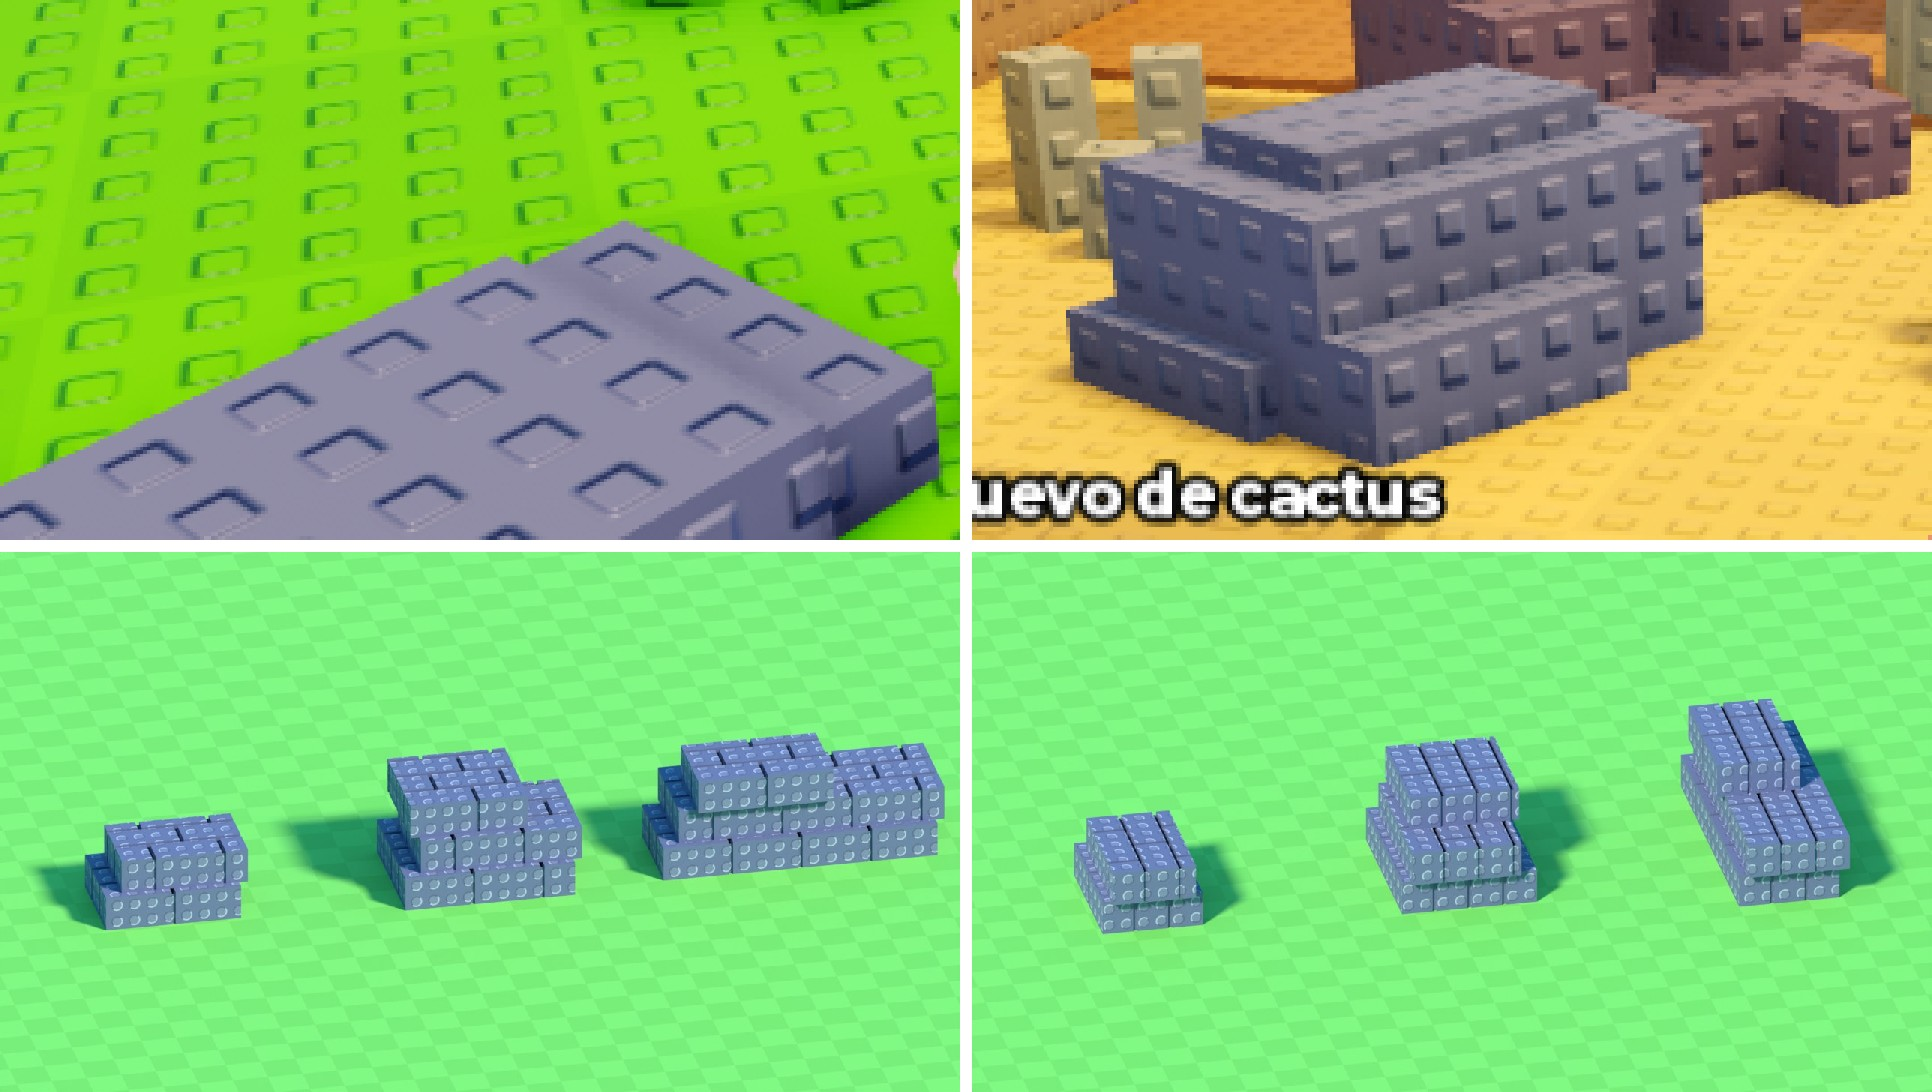
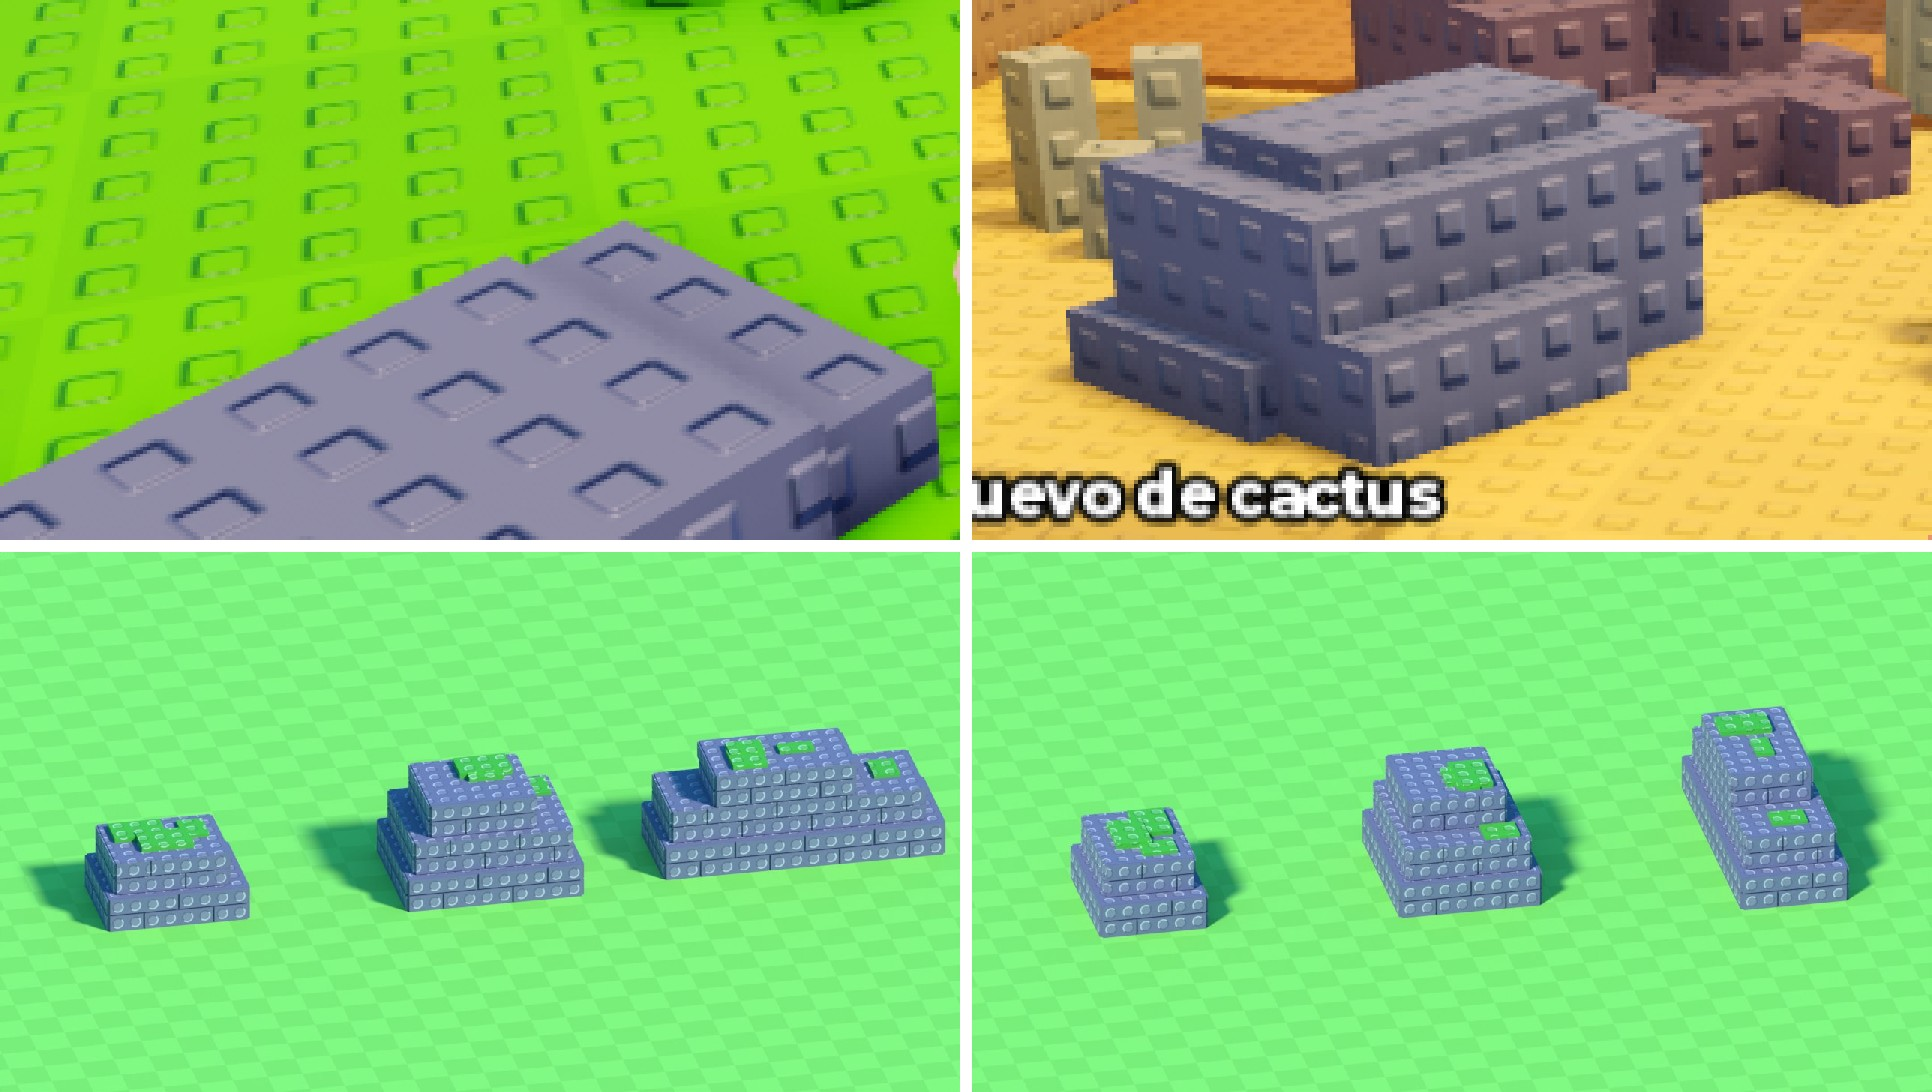
Forja Rápida: Losas_Piedra más unidas (bloque entero con hiladas en los costados) y 3 por zona con su detalle

diff --git a/forja-rapida/arte/scripts/decoracion.py b/forja-rapida/arte/scripts/decoracion.py
@@ -10,9 +10,11 @@ Piezas:
                  con juntas marcadas de los dos lados y una tapa de pasto de 2 studs que sale medio
                  stud para cada lado, con gotitas. Encaja sin costura con otro tramo igual (mismo
                  truco que el risco). Mallas Pared y Tapa (la tapa toma el color de cada bioma).
-  Losas_Piedra   montoncito de 2 o 3 losas planas de ladrillo gris azulado, apiladas un poco
-                 corridas (escombros), en tres tamaños: Chica (2 losas), Mediana y Larga (3).
-                 Una malla por tamaño, la misma para todas las zonas (arte/referencias/losas-*.png).
+  Losas_Piedra   montoncito de 2 o 3 losas planas de piedra apiladas un poco corridas
+                 (escombros), en tres tamaños por zona: Chica (2 losas), Mediana y Larga (3). Cada
+                 losa es un bloque entero (arriba lisa, con studs) y los costados tienen hiladas de
+                 ladrillo con juntas finitas. Mallas Piedra y (si la zona tiene) Detalle: musgo,
+                 arena, nieve, grietas de lava o cristales (arte/referencias/losas-*.png).
 
 Cada pieza tiene una variante por zona (ZONAS): sus colores y lo que tiene la tapa (pasto con
 gotitas; dunas de arena; nieve con carámbanos; ceniza con piedritas y chorros de lava; cristales
@@ -77,19 +79,27 @@ PARED_TAPA = 2  # tapa de pasto: 22 + 2 = 24 de alto
 PARED_ESPESOR = 4  # y, de -2 a 2
 MAX_PARED = 2000
 
-# Losas_Piedra, en studs: losas planas de ladrillo apiladas un poco corridas (escombros). Cada
-# losa es (x0, x1, y0, y1); van una encima de la otra, de abajo para arriba.
-COLOR_LOSAS = "#686C8A"  # gris azulado de las capturas
-LOSA_ALTO = 2  # grosor de cada losa
-LOSA_LADRILLO = (4, 2)  # largo (x) y ancho (y) de cada ladrillo de la losa
-LOSA_JUNTA = 0.24  # junta entre ladrillos
-MAX_LOSAS = 1500
+# Losas_Piedra, en studs: losas planas apiladas un poco corridas (escombros). Cada losa es
+# (x0, x1, y0, y1); van una encima de la otra, de abajo para arriba. Las zonas pares las usan
+# espejadas, así no se repiten igual entre zonas.
+LOSA_ALTO = 2  # grosor de cada losa (2 hiladas de ladrillo de 1)
+LOSA_LADRILLO = 4  # largo de cada ladrillo de los costados
+LOSA_RELIEVE = 0.12  # cuánto salen los ladrillos del bloque de la losa
+LOSA_JUNTA = 0.1  # junta finita entre ladrillos
+MAX_LOSAS = 1500  # por pieza (sumando sus mallas)
 LOSAS = {
-    "Chica": [(-4, 4, -3, 3), (-3, 4.5, -2.5, 2.5)],
-    "Mediana": [(-5, 5, -4, 4), (-4, 5.5, -3.5, 3), (-4.5, 2.5, -3, 3.5)],
-    "Larga": [(-8, 8, -3, 3), (-7, 8.5, -2.5, 3.5), (-6, 2, -3, 2)],
+    "Chica": [(-4, 4, -3, 3), (-3.5, 3, -2.5, 2.5)],
+    "Mediana": [(-5, 5, -4, 4), (-4.5, 4.5, -3.5, 3.5), (-3.5, 2.5, -3, 2.5)],
+    "Larga": [(-8, 8, -3, 3), (-7.5, 7, -2.5, 2.5), (-5, 3, -2.5, 2)],
 }
-
+# Colores de cada zona: piedra y detalle (neon = el detalle brilla)
+LOSAS_ZONAS = {
+    1: {"piedra": "#686C8A", "detalle": "#3DB02A", "neon": False, "estilo": "musgo"},
+    2: {"piedra": "#B08A5E", "detalle": "#F2D27A", "neon": False, "estilo": "arena"},
+    3: {"piedra": "#7F95B5", "detalle": "#F4FAFF", "neon": False, "estilo": "nieve"},
+    4: {"piedra": "#3A2E33", "detalle": "#FF5A00", "neon": True, "estilo": "lava"},
+    5: {"piedra": "#3B3570", "detalle": "#7CF5FF", "neon": True, "estilo": "cristal"},
+}
 
 class Malla:
     """Caras rectangulares (alineadas a los ejes, en studs) con UV de studs por cuadrado de TEJA."""
@@ -329,37 +339,126 @@ def pared_ladrillo(mats, zona=1, semilla=23):
     return objs, conteo
 
 
-def losas_piedra(mats, tam):
-    """Una malla con el montoncito de losas de un tamaño (Chica, Mediana o Larga). Cada losa es de
-    ladrillos de LOSA_LADRILLO separados por una junta (por la junta se ve el centro de la losa,
-    un poco hundido), con las filas corridas medio ladrillo. Pivote en el centro de la base."""
-    losas = LOSAS[tam]
+def hiladas(m, eje, signo, fijo, r0, r1, z0, abajo, corrido):
+    """Ladrillos (plaquitas de LOSA_RELIEVE) sobre un costado de la losa: el plano eje = fijo,
+    mirando a signo, de r0 a r1 a lo largo del costado, dos hiladas de 1 de alto."""
+    j = LOSA_JUNTA / 2
+    afuera = (fijo, fijo + LOSA_RELIEVE) if signo > 0 else (fijo - LOSA_RELIEVE, fijo)
+    for fila in range(round(LOSA_ALTO)):
+        za, zb = z0 + fila + j, z0 + fila + 1 - j
+        if fila == 0 and abajo:
+            za = z0  # la hilada de abajo de todo apoya en el piso
+        r = r0 - (LOSA_LADRILLO / 2 if (fila + corrido) % 2 else 0)
+        while r < r1 - 1e-6:
+            ra, rb = max(r, r0) + j, min(r + LOSA_LADRILLO, r1) - j
+            if rb - ra > 0.5:
+                letra = "xX"[signo > 0] if eje == 0 else "yY"[signo > 0]
+                lados = "yY" if eje == 0 else "xX"
+                caras = letra + lados + "Z" + ("" if za == z0 and abajo else "z")
+                if eje == 0:
+                    m.caja(afuera, (ra, rb), (za, zb), caras=caras)
+                else:
+                    m.caja((ra, rb), afuera, (za, zb), caras=caras)
+            r += LOSA_LADRILLO
+
+
+def adorno(det, rng, estilo, x0, x1, y0, y1, z, grande):
+    """Detalle de la zona sobre la parte de arriba (x0..x1, y0..y1) a la altura z. grande: la
+    losa de arriba de todo (lleva más); si no, es el borde libre de una losa de abajo."""
+    w, d = x1 - x0, y1 - y0
+    if w < 1 or d < 1:
+        return
+    caras = "xXyYZ"
+
+    def lugar(a, b):
+        a, b = min(a, w), min(b, d)
+        xa, ya = rng.uniform(x0, x1 - a), rng.uniform(y0, y1 - b)
+        return (xa, xa + a), (ya, ya + b)
+
+    if estilo == "musgo":
+        for k in range(3 if grande else 1):  # alturas distintas: si se pisan, no se mezclan
+            rx, ry = lugar(rng.choice((1.5, 2, 3)), rng.choice((1, 1.5, 2)))
+            det.caja(rx, ry, (z, z + 0.2 + 0.08 * k), caras=caras)
+    elif estilo == "arena":
+        if grande:
+            rx, ry = lugar(rng.choice((3, 4)), rng.choice((2.5, 3)))
+            det.caja(rx, ry, (z, z + 0.5), caras=caras)
+            det.caja((rx[0] + 0.75, rx[1] - 0.75), (ry[0] + 0.6, ry[1] - 0.6), (z + 0.5, z + 1), caras=caras)
+        else:
+            rx, ry = lugar(2, 1.5)
+            det.caja(rx, ry, (z, z + 0.5), caras=caras)
+    elif estilo == "nieve":
+        if grande:  # capa que tapa toda la losa de arriba, con un montoncito
+            det.caja((x0 - 0.15, x1 + 0.15), (y0 - 0.15, y1 + 0.15), (z, z + 0.4), caras="xXyYzZ")
+            rx, ry = lugar(2, 1.5)
+            det.caja(rx, ry, (z + 0.4, z + 0.9), caras=caras)
+        else:
+            rx, ry = lugar(w, min(d, 1.5))
+            det.caja(rx, ry, (z, z + 0.3), caras=caras)
+    elif estilo == "lava":
+        for k in range(2 if grande else 1):  # grietas finitas que brillan
+            if rng.random() < 0.5:
+                rx, ry = lugar(rng.choice((2, 3, 4)), 0.4)
+            else:
+                rx, ry = lugar(0.4, rng.choice((2, 3)))
+            det.caja(rx, ry, (z, z + 0.06 + 0.03 * k), caras=caras)
+    elif estilo == "cristal":
+        rx, ry = lugar(1.6, 1.6)
+        piezas = ((0, 0, 0.8, 2.2), (0.8, 0.3, 0.6, 1.4), (0.2, 0.9, 0.5, 1)) if grande else ((0, 0, 0.6, 1.2),)
+        for dx, dy, a, h in piezas:
+            h *= rng.choice((0.8, 1, 1.2))
+            det.caja((rx[0] + dx, rx[0] + dx + a), (ry[0] + dy, ry[0] + dy + a), (z, z + h), caras=caras)
+
+
+def losas_piedra(mats, tam, zona=1):
+    """El montoncito de losas de un tamaño (Chica, Mediana o Larga) para una zona: mallas Piedra
+    y (si la zona tiene) Detalle. Cada losa es un bloque entero (arriba lisa, así se lee como
+    una sola piedra) con hiladas de ladrillo en los costados. Pivote en el centro de la base."""
+    rng = random.Random(f"{tam}{zona}")
+    espejo = -1 if zona % 2 == 0 else 1
+    losas = [(min(espejo * a, espejo * b), max(espejo * a, espejo * b), y0, y1) for a, b, y0, y1 in LOSAS[tam]]
     # centrar: el centro de lo que ocupa el montón queda en x = 0, y = 0
     cx = (min(l[0] for l in losas) + max(l[1] for l in losas)) / 2
     cy = (min(l[2] for l in losas) + max(l[3] for l in losas)) / 2
-    m = Malla()
-    j = LOSA_JUNTA / 2
-    largo, ancho = LOSA_LADRILLO
+    losas = [(x0 - cx, x1 - cx, y0 - cy, y1 - cy) for x0, x1, y0, y1 in losas]
+    estilo = LOSAS_ZONAS[zona]["estilo"]
+    piedra, det = Malla(), Malla()
     for i, (x0, x1, y0, y1) in enumerate(losas):
-        x0, x1, y0, y1 = x0 - cx, x1 - cx, y0 - cy, y1 - cy
         z0, z1 = i * LOSA_ALTO, (i + 1) * LOSA_ALTO
-        # el centro de la losa (se ve por las juntas; más adentro que los ladrillos, así no se pisan)
-        h = j + 0.12
-        m.caja((x0 + h, x1 - h), (y0 + h, y1 - h), (z0, z1 - 0.15), caras="xXyY")
-        fila, y = 0, y0
-        while y < y1 - 1e-6:
-            ya, yb = y, min(y + ancho, y1)
-            x = x0 - (largo / 2 if (fila + i) % 2 else 0)
-            while x < x1 - 1e-6:
-                xa, xb = max(x, x0), min(x + largo, x1)
-                if xb - xa > 0.6:  # sin ladrillitos finitos en las puntas
-                    caras = "xXyYZ" if i == 0 else "xXyYzZ"  # la de abajo no muestra la base
-                    m.caja((xa + j, xb - j), (ya + j, yb - j), (z0, z1), caras=caras)
-                x += largo
-            y += ancho
-            fila += 1
-    return mallas([(f"Losas_{tam}", m, mats["losas"])], MAX_LOSAS, f"Losas_Piedra {tam}")
+        abajo = i == 0
+        # el bloque de la losa (arriba entero) y los ladrillos de los 4 costados
+        # (sin base: la de abajo apoya en el piso y las demás apoyan enteras sobre la anterior)
+        piedra.caja((x0, x1), (y0, y1), (z0, z1), caras="xXyYZ")
+        hiladas(piedra, 0, -1, x0, y0, y1, z0, abajo, i)
+        hiladas(piedra, 0, 1, x1, y0, y1, z0, abajo, i + 1)
+        hiladas(piedra, 1, -1, y0, x0, x1, z0, abajo, i + 1)
+        hiladas(piedra, 1, 1, y1, x0, x1, z0, abajo, i)
+        if i + 1 < len(losas):
+            # borde libre más ancho de esta losa (lo que no tapa la de arriba)
+            ux0, ux1, uy0, uy1 = losas[i + 1]
+            bordes = [(x0, ux0, y0, y1), (ux1, x1, y0, y1), (x0, x1, y0, uy0), (x0, x1, uy1, y1)]
+            bx0, bx1, by0, by1 = max(bordes, key=lambda b: min(b[1] - b[0], b[3] - b[2]))
+            adorno(det, rng, estilo, bx0 + 0.2, bx1 - 0.2, by0 + 0.2, by1 - 0.2, z1, False)
+        else:
+            adorno(det, rng, estilo, x0 + 0.3, x1 - 0.3, y0 + 0.3, y1 - 0.3, z1, True)
+    nombre = f"Losas_{tam}"
+    objs, conteo = mallas([("Piedra", piedra, mats["piedra"]), ("Detalle", det, mats["detalle"])], MAX_LOSAS, nombre)
+    if sum(conteo.values()) > MAX_LOSAS:
+        raise RuntimeError(f"{nombre} zona {zona}: {sum(conteo.values())} triángulos (máximo {MAX_LOSAS})")
+    return objs, conteo
 
+
+def mats_losas(zona, studs=None):
+    """Materiales de las losas de una zona; con studs, para el render (y lo Neon brilla)."""
+    z = LOSAS_ZONAS[zona]
+    if studs is None:
+        return {"piedra": M.material(f"Losas_Zona{zona}", z["piedra"]), "detalle": M.material(f"Losas_Detalle_Zona{zona}", z["detalle"])}
+    det = (
+        M.material(f"LDet{zona}", z["detalle"], brillo=z["detalle"], fuerza_brillo=1.2)
+        if z["neon"]
+        else material_studs(f"LDet{zona}", z["detalle"], studs)
+    )
+    return {"piedra": material_studs(f"Losas{zona}", z["piedra"], studs), "detalle": det}
 
 # nombre -> (función, alto total en studs, fondo en studs)
 PIEZAS = {
@@ -465,29 +564,49 @@ REFERENCIAS = {
 
 
 def render_losas():
-    """Losas_Piedra: chica, mediana y larga en fila, de frente y de costado, y al lado de las
-    referencias."""
-    conteo = {}
+    """Losas_Piedra de la zona 1 (chica, mediana y larga en fila) de frente y de costado, al lado
+    de las referencias; y losas_zonas.jpg con las 3 de cada zona (una fila por zona)."""
+    import numpy as np
+
     paso = 18 * M.STUD
     for vista in ("frente", "costado"):
         M.limpiar_escena()
         escena = M.escena_render(1280, 720)
-        mats = {"losas": material_studs("Losas", COLOR_LOSAS, textura_studs())}
+        mats = mats_losas(1, textura_studs())
         for k, tam in enumerate(LOSAS):
-            objs, c = losas_piedra(mats, tam)
-            conteo.update(c)
-            if vista == "frente":
-                M.mover(objs, (k - 1) * paso)
-            else:
-                M.mover(objs, 0, (k - 1) * paso)
-        if vista == "frente":
-            camara_orto(escena, (0, 0, 1.6 * LOSA_ALTO * M.STUD), 3 * paso * 1.0, 26, -12)
-        else:
-            camara_orto(escena, (0, 0, 1.6 * LOSA_ALTO * M.STUD), 3 * paso * 1.0, 26, 78)
+            objs, _ = losas_piedra(mats, tam, 1)
+            M.mover(objs, (k - 1) * paso if vista == "frente" else 0, 0 if vista == "frente" else (k - 1) * paso)
+        giro = -12 if vista == "frente" else 78
+        camara_orto(escena, (0, 0, 1.6 * LOSA_ALTO * M.STUD), 3 * paso, 26, giro)
         M.render(f"losas_piedra_{vista}")
     comparar("Losas_Piedra")
-    print("TRIANGULOS Losas_Piedra", conteo)
-
+    # todas las zonas: una imagen por zona y después juntas, de arriba (zona 1) para abajo
+    filas = []
+    for zona in LOSAS_ZONAS:
+        M.limpiar_escena()
+        escena = M.escena_render(1800, 520)
+        mats = mats_losas(zona, textura_studs())
+        for k, tam in enumerate(LOSAS):
+            objs, conteo = losas_piedra(mats, tam, zona)
+            M.mover(objs, (k - 1) * paso)
+            print("TRIANGULOS Losas", f"zona {zona}", tam, conteo, "total", sum(conteo.values()))
+        t = M.etiqueta(f"Zona {zona}", -1.5 * paso - 0.6, -2.2, tam=0.5, color="#1B1F3B")
+        t.rotation_euler.x = math.radians(64)
+        camara_orto(escena, (0, 0, 1.2 * LOSA_ALTO * M.STUD), 3.2 * paso, 26, -12)
+        M.render(f"losas_zona{zona}")
+        filas.append(cargar(M.RENDERS / f"losas_zona{zona}.jpg", 1800, 520))
+        (M.RENDERS / f"losas_zona{zona}.jpg").unlink()
+    blanco = np.ones((10, 1800, 4), dtype=np.float32)
+    partes = []
+    for fila in reversed(filas):  # en Blender la fila 0 es la de abajo
+        partes += [fila, blanco]
+    junto = np.concatenate(partes[:-1], axis=0)
+    salida = bpy.data.images.new("losas", junto.shape[1], junto.shape[0])
+    salida.pixels.foreach_set(junto.ravel())
+    salida.filepath_raw = str(M.RENDERS / "losas_zonas.jpg")
+    salida.file_format = "JPEG"
+    salida.save()
+    print("  Render losas_zonas.jpg")
 
 def render(pieza):
     """De frente: 3 piezas seguidas (para ver que no se nota la unión). De costado: una sola.
@@ -592,9 +711,9 @@ def comparar(pieza):
 
 def exportar():
     """Deco_Comun.fbx: Zona1..Zona5, cada una con un vacío por pieza (Risco_Escalon_Zona2...) y
-    sus mallas (Risco_Zona2, Risco_Tapa_Zona2, Pared_Detalle_Zona2...), y Losas_Piedra (una sola
-    para todas las zonas) con Losas_Chica, Losas_Mediana y Losas_Larga. Sin textura: el juego
-    pone el color y TextureID = Studs.png."""
+    sus mallas (Risco_Zona2, Risco_Tapa_Zona2, Pared_Detalle_Zona2...), y las 3 losas
+    (Losas_Chica_Zona2... con Losas_Chica_Piedra_Zona2 y Losas_Chica_Detalle_Zona2). Sin
+    textura: el juego pone el color y TextureID = Studs.png."""
     M.limpiar_escena()
     raiz = bpy.data.objects.new("Deco_Comun", None)
     bpy.context.scene.collection.objects.link(raiz)
@@ -612,14 +731,14 @@ def exportar():
                 malla, pieza = o.name.split(".")[0], nombre.split("_")[0]
                 # Risco_Zona2, Risco_Tapa_Zona2, Pared_Detalle_Zona2...
                 o.name = o.data.name = f"{malla if malla == pieza else pieza + '_' + malla}_Zona{zona}"
-    losas = bpy.data.objects.new("Losas_Piedra", None)
-    bpy.context.scene.collection.objects.link(losas)
-    losas.parent = raiz
-    mats = {"losas": M.material("Losas", COLOR_LOSAS)}
-    for tam in LOSAS:
-        objs, _ = losas_piedra(mats, tam)
-        for o in objs:
-            o.parent = losas
+        for tam in LOSAS:
+            vacio = bpy.data.objects.new(f"Losas_{tam}_Zona{zona}", None)
+            bpy.context.scene.collection.objects.link(vacio)
+            vacio.parent = carpeta
+            objs, _ = losas_piedra(mats_losas(zona), tam, zona)
+            for o in objs:
+                o.parent = vacio
+                o.name = o.data.name = f"Losas_{tam}_{o.name.split('.')[0]}_Zona{zona}"
     bpy.ops.object.select_all(action="DESELECT")
     for o in [raiz, *raiz.children_recursive]:
         o.select_set(True)
